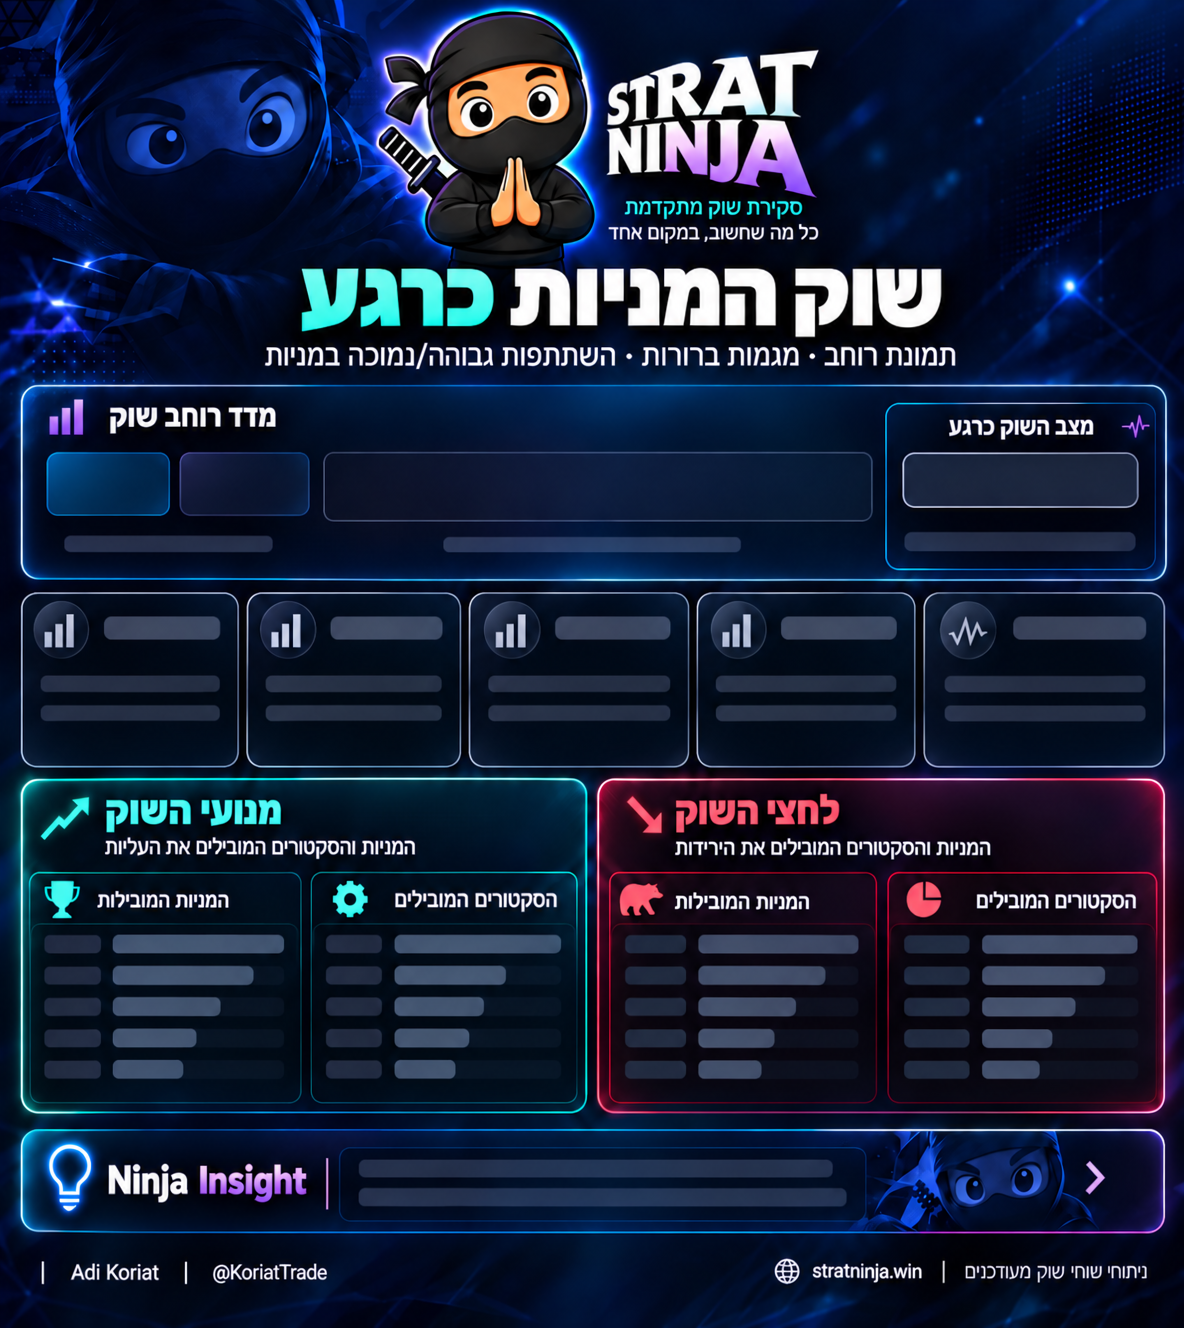
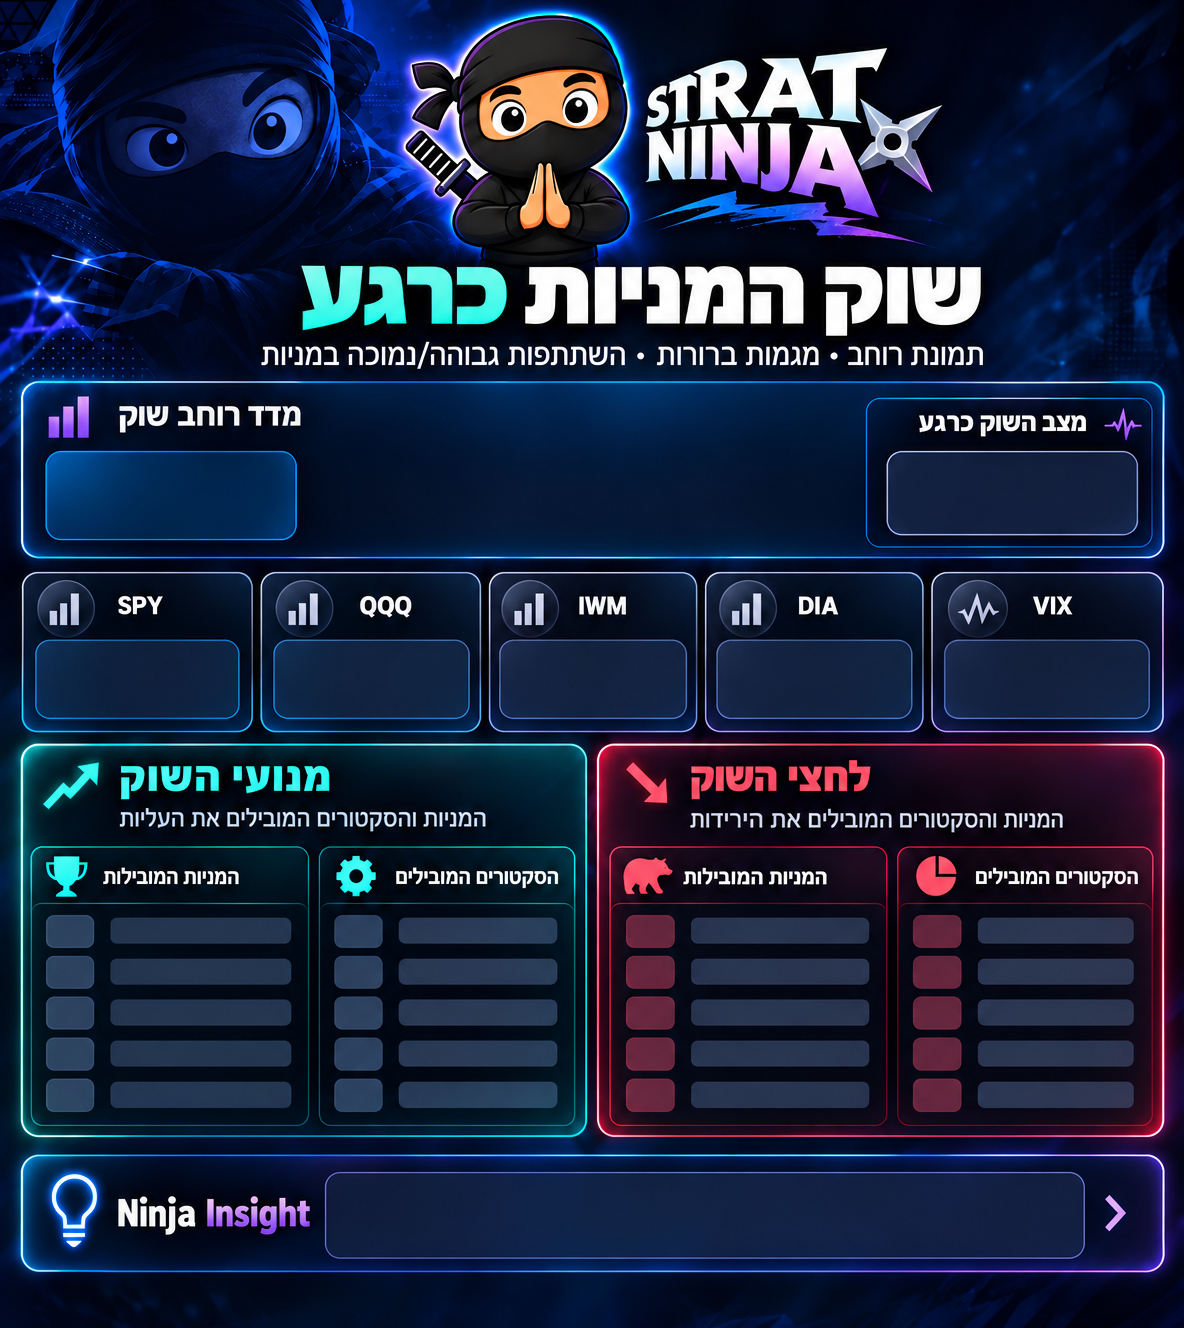
Market card: adapt to Adi's cleaner template (v2) + calibrated positions
New clean template has labeled index cards (SPY/QQQ/IWM/DIA/VIX baked) and defined
boxes, so we overlay only data. Index cards now show price+chg+sparkline (no dup
sym); breadth compacted into the left box; positions re-estimated for the v2 art.

diff --git a/redesign.css b/redesign.css
@@ -118,40 +118,37 @@ html[data-theme="light"] { --lux-g1:#0a875a; --lux-g2:#12b07d; --lux-gsoft:rgba(
 .nrf-lbl { font-size: 11px; color: var(--muted); font-weight: 700; min-width: 34px; text-align: start; }
 /* ===== 🖼 Market Overview MEGA share card — data overlaid on Market_Template.png ===== */
 .market-card { position: fixed; left: -9999px; top: 0; z-index: -1; width: 1184px; height: 1328px;
-  background: #0B1020 url("Market_Template.png?v=1") top center / 1184px 1328px no-repeat;
+  background: #0B1020 url("Market_Template.png?v=2") top center / 1184px 1328px no-repeat;
   direction: rtl; font-family: 'Heebo', sans-serif; color: #eaf2ff; }
 .market-card > div { position: absolute; }
-/* breadth */
-.mkt-brd-num { top: 35.5%; left: 41%; transform: translate(-50%, -50%); font-size: 50px; font-weight: 900; color: #eafff8; white-space: nowrap; letter-spacing: -1px; }
-.mkt-brd-num span { font-size: 28px; color: #7f9ccb; font-weight: 700; }
-.mkt-brd-pct { top: 40%; left: 41%; transform: translateX(-50%); font-size: 15px; font-weight: 700; color: #3fe0a0; white-space: nowrap; }
-.mkt-brd-boxdn, .mkt-brd-boxup { top: 36.5%; transform: translate(-50%, -50%); font-size: 20px; font-weight: 800; white-space: nowrap; }
-.mkt-brd-boxdn { left: 12%; color: #ff6b7a; } .mkt-brd-boxup { left: 20%; color: #3fe0a0; }
-.mkt-brd-boxdn span, .mkt-brd-boxup span { display: block; font-size: 12px; font-weight: 600; opacity: .8; }
-.mkt-brd-bar { top: 41.5%; left: 48%; transform: translateX(-50%); width: 40%; height: 12px; border-radius: 7px; overflow: hidden; background: rgba(255,255,255,.06); display: flex; direction: ltr; }
+/* breadth — inside the small left box of the מדד רוחב שוק frame */
+.mkt-brd-num { top: 35.3%; left: 14.3%; transform: translateX(-50%); font-size: 40px; font-weight: 900; color: #eafff8; white-space: nowrap; letter-spacing: -1px; }
+.mkt-brd-num span { font-size: 24px; color: #7f9ccb; font-weight: 700; }
+.mkt-brd-bar { top: 38.6%; left: 14.3%; transform: translateX(-50%); width: 19%; height: 11px; border-radius: 6px; overflow: hidden; background: rgba(255,255,255,.07); display: flex; direction: ltr; }
 .mkt-brd-bar .r { background: linear-gradient(90deg,#ff5a6a,#e5384a); height: 100%; } .mkt-brd-bar .g { background: linear-gradient(90deg,#17c08a,#3fe0a0); height: 100%; }
-/* market state (right box) */
-.mkt-state { top: 33.5%; left: 85.5%; transform: translateX(-50%); width: 21%; text-align: center; }
-.mkt-state-pill { display: inline-block; font-size: 18px; font-weight: 800; padding: 4px 12px; border-radius: 20px; white-space: nowrap; }
-.mkt-state.neg .mkt-state-pill { color: #ff6b7a; background: rgba(229,56,74,.14); } .mkt-state.pos .mkt-state-pill { color: #3fe0a0; background: rgba(22,184,119,.14); } .mkt-state.z .mkt-state-pill { color: #e0b341; background: rgba(224,179,65,.14); }
-.mkt-state-expl { display: block; font-size: 12px; color: #c3ccdd; margin-top: 6px; line-height: 1.35; }
-/* index cards (5 across) */
-.mkt-idx { top: 47.5%; width: 17.5%; display: flex; flex-direction: column; align-items: flex-end; text-align: right; padding-inline-end: 3%; }
-.mkt-idx-sym { font-size: 20px; font-weight: 900; color: #eaf2ff; letter-spacing: .5px; }
-.mkt-idx-px { font-size: 26px; font-weight: 900; color: #ffffff; margin-top: 2px; }
-.mkt-idx-chg { font-size: 15px; font-weight: 800; margin-top: 1px; } .mkt-idx-chg.pos { color: #3fe0a0; } .mkt-idx-chg.neg { color: #ff6b7a; } .mkt-idx-chg.z { color: #9fb0c8; }
-.mkt-idx-spk { width: 100%; height: 24px; margin-top: 3px; } .mkt-spark { width: 100%; height: 100%; display: block; }
-.mkt-idx-sub { font-size: 11px; color: #8aa0c0; margin-top: 2px; letter-spacing: .3px; }
-/* leaders / laggards lists */
-.mkt-list { display: flex; flex-direction: column; justify-content: space-between; height: 15.5%; }
-.mkt-lead-stocks { top: 71.5%; left: 30%; width: 15%; } .mkt-lead-secs { top: 71.5%; left: 5%; width: 15%; }
-.mkt-lag-stocks { top: 71.5%; left: 79.5%; width: 15%; } .mkt-lag-secs { top: 71.5%; left: 54.5%; width: 15%; }
-.mkt-lrow { display: flex; align-items: center; justify-content: space-between; direction: ltr; font-size: 14px; }
+.mkt-brd-pct { top: 40.3%; left: 14.3%; transform: translateX(-50%); font-size: 11.5px; font-weight: 700; color: #c3ccdd; white-space: nowrap; }
+.mkt-brd-pct .pos { color: #3fe0a0; } .mkt-brd-pct .neg { color: #ff6b7a; }
+/* market state — inside the right box */
+.mkt-state { top: 34.2%; left: 86.3%; transform: translateX(-50%); width: 21%; text-align: center; }
+.mkt-state-pill { display: inline-block; font-size: 17px; font-weight: 800; padding: 3px 12px; border-radius: 20px; white-space: nowrap; }
+.mkt-state.neg .mkt-state-pill { color: #ff6b7a; background: rgba(229,56,74,.16); } .mkt-state.pos .mkt-state-pill { color: #3fe0a0; background: rgba(22,184,119,.16); } .mkt-state.z .mkt-state-pill { color: #e0b341; background: rgba(224,179,65,.16); }
+.mkt-state-expl { display: block; font-size: 12px; color: #c3ccdd; margin-top: 5px; line-height: 1.3; }
+/* index cards — overlay price/chg/sparkline into each card's lower empty box (sym+icon are baked) */
+.mkt-idx { top: 50.5%; width: 17.3%; transform: translateX(-50%); display: flex; flex-direction: column; align-items: center; }
+.mkt-idx-row { display: flex; align-items: baseline; gap: 8px; direction: ltr; }
+.mkt-idx-px { font-size: 25px; font-weight: 900; color: #ffffff; }
+.mkt-idx-chg { font-size: 15px; font-weight: 800; } .mkt-idx-chg.pos { color: #3fe0a0; } .mkt-idx-chg.neg { color: #ff6b7a; } .mkt-idx-chg.z { color: #9fb0c8; }
+.mkt-idx-spk { width: 82%; height: 22px; margin-top: 4px; } .mkt-spark { width: 100%; height: 100%; display: block; }
+/* leaders (green, left box) + laggards (red, right box) — 5 rows each, auto-spaced in their column */
+.mkt-list { display: flex; flex-direction: column; justify-content: space-between; height: 15.6%; }
+.mkt-lead-stocks { top: 69.5%; left: 37%; width: 18.5%; } .mkt-lead-secs { top: 69.5%; left: 13.5%; width: 18.5%; }
+.mkt-lag-stocks { top: 69.5%; left: 86%; width: 18.5%; } .mkt-lag-secs { top: 69.5%; left: 62%; width: 18.5%; }
+.mkt-lrow { display: flex; align-items: center; justify-content: space-between; direction: ltr; font-size: 14.5px; padding: 0 4px; height: 2.6%; }
 .mkt-lrow .mkt-lt { font-weight: 800; color: #eaf2ff; } .mkt-lrow .mkt-lt.muted { color: #6b7a92; }
 .mkt-lrow .mkt-lp { font-weight: 800; font-variant-numeric: tabular-nums; } .mkt-lp.pos { color: #3fe0a0; } .mkt-lp.neg { color: #ff6b7a; } .mkt-lp.z { color: #9fb0c8; }
-/* insight + date */
-.mkt-insight { top: 90.3%; left: 55%; transform: translateX(-50%); width: 60%; font-size: 15px; font-weight: 600; color: #dbe6f7; line-height: 1.4; text-align: start; }
-.mkt-date { top: 96.4%; left: 8%; transform: translateX(-50%); font-size: 13px; color: #8aa0c0; font-weight: 600; white-space: nowrap; }
+/* Ninja Insight text + date */
+.mkt-insight { top: 92.3%; left: 60%; transform: translate(-50%, -50%); width: 62%; font-size: 15.5px; font-weight: 600; color: #dbe6f7; line-height: 1.4; text-align: start; }
+.mkt-date { top: 97.8%; left: 50%; transform: translateX(-50%); font-size: 12px; color: #7f93b5; font-weight: 600; white-space: nowrap; }
 /* option current-price source tag (auto CBOE vs manually typed) */
 .opt-src { display: inline-block; font-size: 9.5px; font-weight: 800; padding: 1px 5px; border-radius: 5px; white-space: nowrap; vertical-align: middle; letter-spacing: .2px; }
 .opt-src.auto { color: #7ee2b8; background: rgba(23,192,138,.14); }

diff --git a/pages.js b/pages.js
@@ -2726,19 +2726,16 @@
     const IDX = [["SPY", "S&P 500"], ["QQQ", "NASDAQ 100"], ["IWM", "RUSSELL 2000"], ["DIA", "DOW JONES"], ["VIX", "תנודתיות"]];
     const idxLefts = [2.2, 21.4, 40.6, 59.8, 79.0];   // % — calibrate to the template's 5 card slots
     const idxCards = IDX.map((it, i) => {
-      const sym = it[0], vix = sym === "VIX";
+      const sym = it[0], vix = sym === "VIX";   // the SYM label + icon are baked into the template; we overlay only price/chg/spark
       const r = byS[sym];
       const price = vix ? vixLvl : (r ? r.price : null);
       const chg = vix ? vixChg : (r ? r.chg : null);
       const cls = _cls(chg);
-      const sub = vix ? (vixLvl != null ? (vixLvl < 18 ? "תנודתיות נמוכה" : vixLvl > 28 ? "תנודתיות גבוהה" : "תנודתיות בינונית") : "תנודתיות") : it[1];
       const spk = vix ? "" : _mkSpark(r && r.ohlc, cls);
       return '<div class="mkt-idx" style="left:' + idxLefts[i] + '%">' +
-        '<div class="mkt-idx-sym">' + sym + '</div>' +
-        '<div class="mkt-idx-px">' + (price != null ? Number(price).toFixed(2) : "—") + '</div>' +
-        '<div class="mkt-idx-chg ' + cls + '">' + _pctS(chg) + _arrow(chg) + '</div>' +
-        '<div class="mkt-idx-spk">' + spk + '</div>' +
-        '<div class="mkt-idx-sub">' + sub + '</div></div>';
+        '<div class="mkt-idx-row"><span class="mkt-idx-px">' + (price != null ? Number(price).toFixed(2) : "—") + '</span>' +
+        '<span class="mkt-idx-chg ' + cls + '">' + _pctS(chg) + _arrow(chg) + '</span></div>' +
+        '<div class="mkt-idx-spk">' + spk + '</div></div>';
     }).join("");
     // leaders / laggards (stocks) + sectors up/down
     const leadS = (U.leaders || []).slice().sort((a, c) => (c.c || 0) - (a.c || 0)).slice(0, 5);
@@ -2760,12 +2757,10 @@
     const el = document.createElement("div");
     el.className = "market-card";   // background = Market_Template.png; we overlay only the data
     el.innerHTML =
-      // breadth
+      // breadth (compact: number + bar + label, inside the small left box)
       '<div class="mkt-brd-num">' + up + '<span>/' + total + '</span></div>' +
-      '<div class="mkt-brd-pct">' + pct + '% מעל הפתיחה</div>' +
-      '<div class="mkt-brd-boxdn">' + down + ' ▼<span>' + dnPct + '%</span></div>' +
-      '<div class="mkt-brd-boxup">' + up + ' ▲<span>' + pct + '%</span></div>' +
       '<div class="mkt-brd-bar"><span class="g" style="width:' + pct + '%"></span><span class="r" style="width:' + dnPct + '%"></span></div>' +
+      '<div class="mkt-brd-pct"><b class="pos">▲ ' + up + '</b> · <b class="neg">▼ ' + down + '</b> · ' + pct + '% מעל הפתיחה</div>' +
       // market state
       '<div class="mkt-state ' + (ms ? ms.cls : "z") + '"><span class="mkt-state-pill">' + (ms ? ms.emoji + " " : "") + riskTxt + '</span><span class="mkt-state-expl">' + escHtml(stateExpl) + '</span></div>' +
       // index cards
